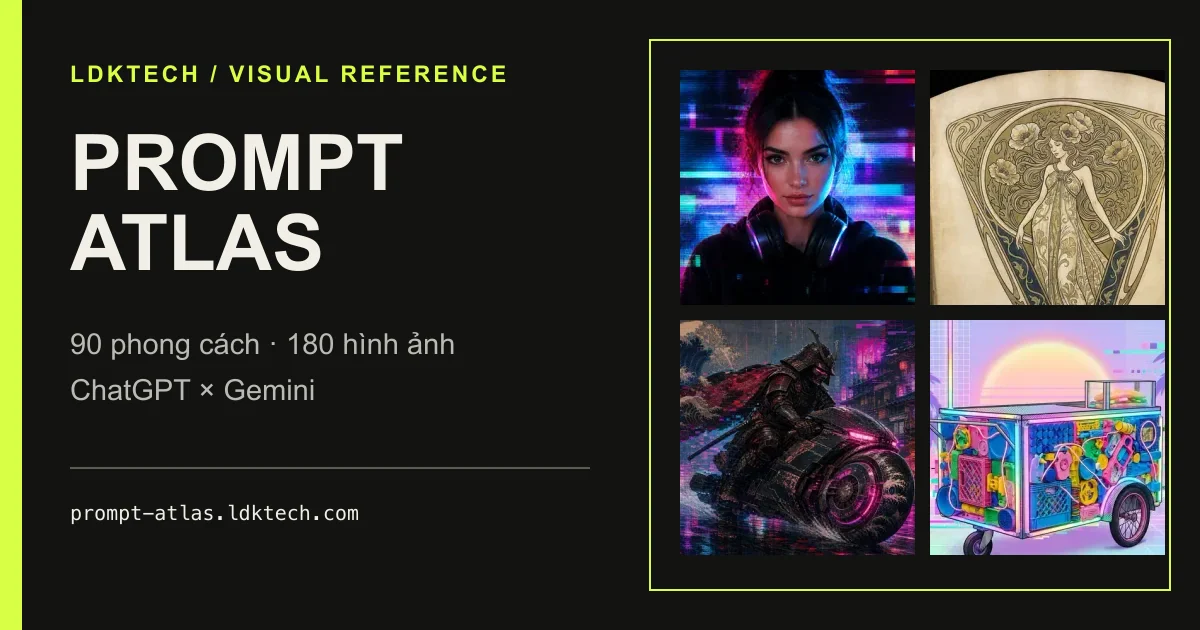
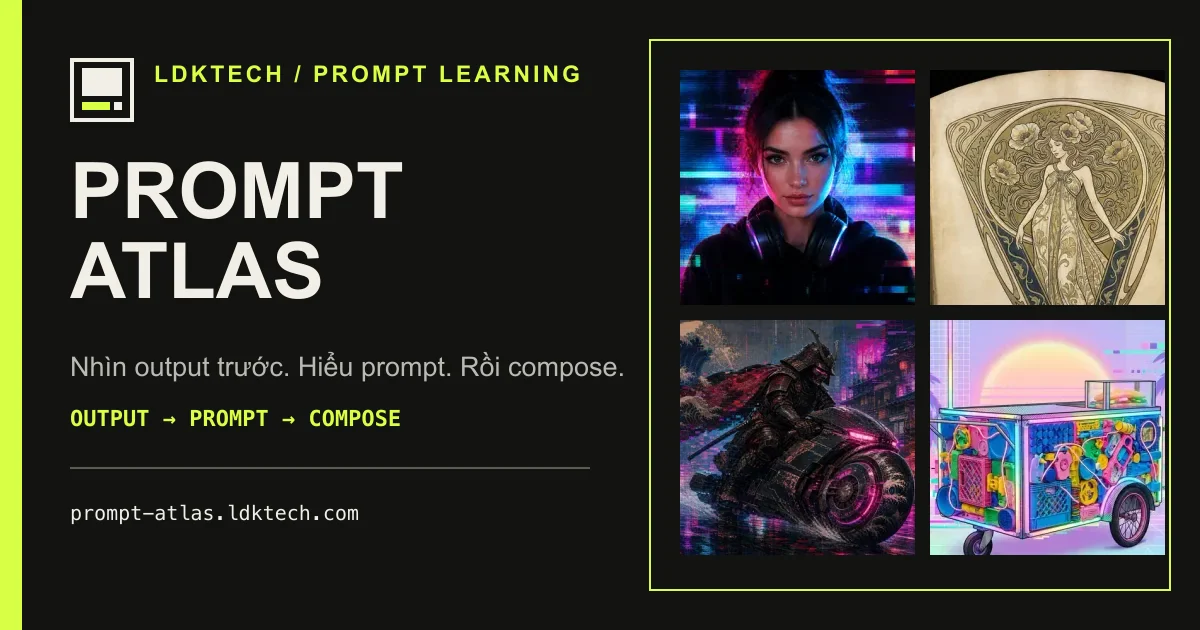
feat: productionize provider-neutral brand mark

Changed region(s): [[0.0308, 0.0905, 0.4933, 0.4825], [0.0617, 0.5127, 0.5242, 0.6937]]

diff --git a/tests/brand.spec.ts b/tests/brand.spec.ts
@@ -1,0 +1,46 @@
+import { expect, test } from "@playwright/test";
+
+for (const viewport of [
+  { name: "desktop", width: 1440, height: 900 },
+  { name: "mobile", width: 390, height: 844 },
+]) {
+  test(`provider-neutral brand header remains legible on ${viewport.name}`, async ({ page }) => {
+    await page.setViewportSize({ width: viewport.width, height: viewport.height });
+    await page.goto("/");
+
+    const brand = page.getByRole("link", { name: "Prompt Atlas — trang chủ" });
+    await expect(brand).toBeVisible();
+    await expect(brand.locator("img")).toHaveAttribute("src", "/brand/prompt-atlas-mark-reverse.svg");
+    await expect(brand).toContainText("PROMPT ATLAS");
+
+    const geometry = await brand.evaluate((element) => {
+      const box = element.getBoundingClientRect();
+      const image = element.querySelector("img")?.getBoundingClientRect();
+      return {
+        brandWithinViewport: box.left >= 0 && box.right <= document.documentElement.clientWidth,
+        imageWidth: image?.width ?? 0,
+        imageHeight: image?.height ?? 0,
+        overflow: document.documentElement.scrollWidth - document.documentElement.clientWidth,
+      };
+    });
+    expect(geometry.brandWithinViewport).toBe(true);
+    expect(geometry.imageWidth).toBeGreaterThanOrEqual(32);
+    expect(geometry.imageHeight).toBeGreaterThanOrEqual(32);
+    expect(geometry.overflow).toBeLessThanOrEqual(0);
+  });
+}
+
+test("favicon, manifest and brand SVGs resolve", async ({ request }) => {
+  for (const asset of [
+    "/favicon.svg",
+    "/site.webmanifest",
+    "/brand/prompt-atlas-mark-primary.svg",
+    "/brand/prompt-atlas-mark-reverse.svg",
+    "/brand/prompt-atlas-mark-mono.svg",
+    "/brand/prompt-atlas-favicon-16.svg",
+    "/brand/prompt-atlas-favicon-32.svg",
+    "/brand/prompt-atlas-favicon-64.svg",
+  ]) {
+    expect((await request.get(asset)).ok(), asset).toBe(true);
+  }
+});

diff --git a/src/styles/global.css b/src/styles/global.css
@@ -182,32 +182,10 @@ button {
 }
 
 .brand__mark {
-  position: relative;
-  display: grid;
-  grid-template-columns: 1fr 1fr;
+  display: block;
+  flex: 0 0 auto;
   width: 34px;
   height: 34px;
-  border: 1px solid var(--paper);
-}
-
-.brand__mark i:first-child {
-  background: var(--chatgpt);
-}
-
-.brand__mark i:nth-child(2) {
-  background: var(--gemini);
-}
-
-.brand__mark b {
-  position: absolute;
-  top: 50%;
-  left: 50%;
-  width: 9px;
-  height: 9px;
-  background: var(--acid);
-  border: 2px solid var(--ink);
-  border-radius: 50%;
-  transform: translate(-50%, -50%);
 }
 
 .brand__text {

diff --git a/docs/features/ldk-459-provider-neutral-logo.md b/docs/features/ldk-459-provider-neutral-logo.md
@@ -1,0 +1,57 @@
+# LDK-459 — Provider-neutral Output/Prompt Plate
+
+## Product outcome
+
+Prompt Atlas uses one provider-neutral brand mark that encodes the learning journey: output first, prompt cue second, then action. The mark keeps the accepted editorial neo-brutalist paper/ink/acid system and never uses provider identity as core branding.
+
+## Approved construction
+
+- Master grid: 64 × 64, integer-aligned flat vector shapes.
+- Paper plate: hard square with an ink rule.
+- Output window: the dominant ink field.
+- Prompt cue: the smaller acid rule below the output.
+- Composer terminal: a small ink square after the prompt cue.
+- No radius, gradient, transparency, shadow, decorative effect, font dependency, ChatGPT red or Gemini blue.
+
+## Required assets
+
+- Primary mark for paper contexts.
+- Reverse mark for ink contexts.
+- One-colour ink mark.
+- Optically checked favicon variants for 16, 32 and 64px, with `/favicon.svg` retained as the stable public entry point.
+- HTML header lockup using the reverse symbol plus accessible `PROMPT ATLAS / BY LDKTECH` text.
+- Web app manifest, Open Graph plate and structured website metadata referencing the approved provider-neutral system.
+- The former provider-split favicon retained under an explicit legacy path until rollout acceptance.
+
+## Behaviour scenarios
+
+### Header on desktop and mobile
+
+Given any page, when the global header renders, then the home link keeps the accessible name `Prompt Atlas — trang chủ`, the symbol is decorative inside that named link, the wordmark remains live HTML text, and the mark remains legible without horizontal overflow.
+
+### Brand asset independence
+
+Given any production SVG variant, when it is inspected outside the website, then it contains only flat vector geometry, has no live text or font dependency, and contains no provider colour.
+
+### Browser and shared-link identity
+
+Given a browser tab, install surface, social share or structured-data consumer, when it requests Prompt Atlas identity, then favicon, manifest, OG cover and JSON-LD all resolve to the Output/Prompt Plate system and describe the learning-first product rather than a provider contest.
+
+### Historical recovery
+
+Given rollout review, when the prior identity needs inspection, then its original provider-split favicon remains available at the documented legacy asset path but is not referenced by an active brand surface.
+
+## Acceptance criteria
+
+- Mark remains readable at rendered sizes 16, 24, 32 and 64px on paper and ink.
+- Primary, reverse, monochrome, 16px, 32px and 64px SVGs use a 64-unit integer grid and no `<text>`, font, gradient, filter, mask, opacity or provider colours.
+- Core mark palette is limited to paper `#F1EEE6`, ink `#121311` and acid `#D8FF45`; monochrome uses ink only.
+- Header retains visible HTML wordmark and the accessible home-link name.
+- `/favicon.svg`, `/site.webmanifest`, OG generation and JSON-LD reference the approved identity.
+- OG copy explains `Output → Prompt → Compose` in Vietnamese and does not frame the product as `ChatGPT × Gemini`.
+- Automated contract tests cover asset hygiene and integration; Playwright covers desktop/mobile header layout and accessibility.
+- `npm run verify:pages` and relevant E2E tests pass before merge.
+
+## Scope boundary
+
+Software merge only. No production deployment and no external trademark acceptance are part of LDK-459.

diff --git a/docs/brand/prompt-atlas-brand-mark.md b/docs/brand/prompt-atlas-brand-mark.md
@@ -1,0 +1,34 @@
+# Prompt Atlas brand mark
+
+## Core idea
+
+The Output/Prompt Plate encodes the product journey as a flat specimen: the large output window is seen first, the acid prompt cue is inspected second, and the small terminal carries the learned component into Composer.
+
+## Production variants
+
+| Variant | File | Use |
+| --- | --- | --- |
+| Primary | `/brand/prompt-atlas-mark-primary.svg` | Paper and light editorial surfaces |
+| Reverse | `/brand/prompt-atlas-mark-reverse.svg` | Ink header and dark surfaces |
+| Monochrome | `/brand/prompt-atlas-mark-mono.svg` | One-colour print and constrained output |
+| Favicon 16 | `/brand/prompt-atlas-favicon-16.svg` | Optical check at 16px |
+| Favicon 32 | `/brand/prompt-atlas-favicon-32.svg` | Optical check at 32px |
+| Favicon 64 | `/brand/prompt-atlas-favicon-64.svg` | Manifest and 64px surfaces |
+| Stable favicon | `/favicon.svg` | Browser-facing compatibility entry point |
+
+All SVGs use the 64-unit integer grid and flat shapes. They contain no live text, fonts, gradients, shadows, transparency or provider colours.
+
+## Palette and exclusion
+
+- Paper `#F1EEE6`
+- Ink `#121311`
+- Acid action `#D8FF45`
+
+Provider colours are evidence-only and must never enter the core symbol or wordmark. The retired split-provider favicon remains at `/brand/legacy/favicon-provider-split.svg` for rollout inspection only; no active surface may reference it.
+
+## Size and spacing
+
+- Approved checks: 16, 24, 32 and 64px.
+- Keep at least one terminal-square of clear space around the symbol where layout allows.
+- Do not redraw, round corners, add effects or collapse the output/prompt hierarchy.
+- Keep the navigation wordmark as live accessible HTML text; the SVG is decorative inside the named home link.
